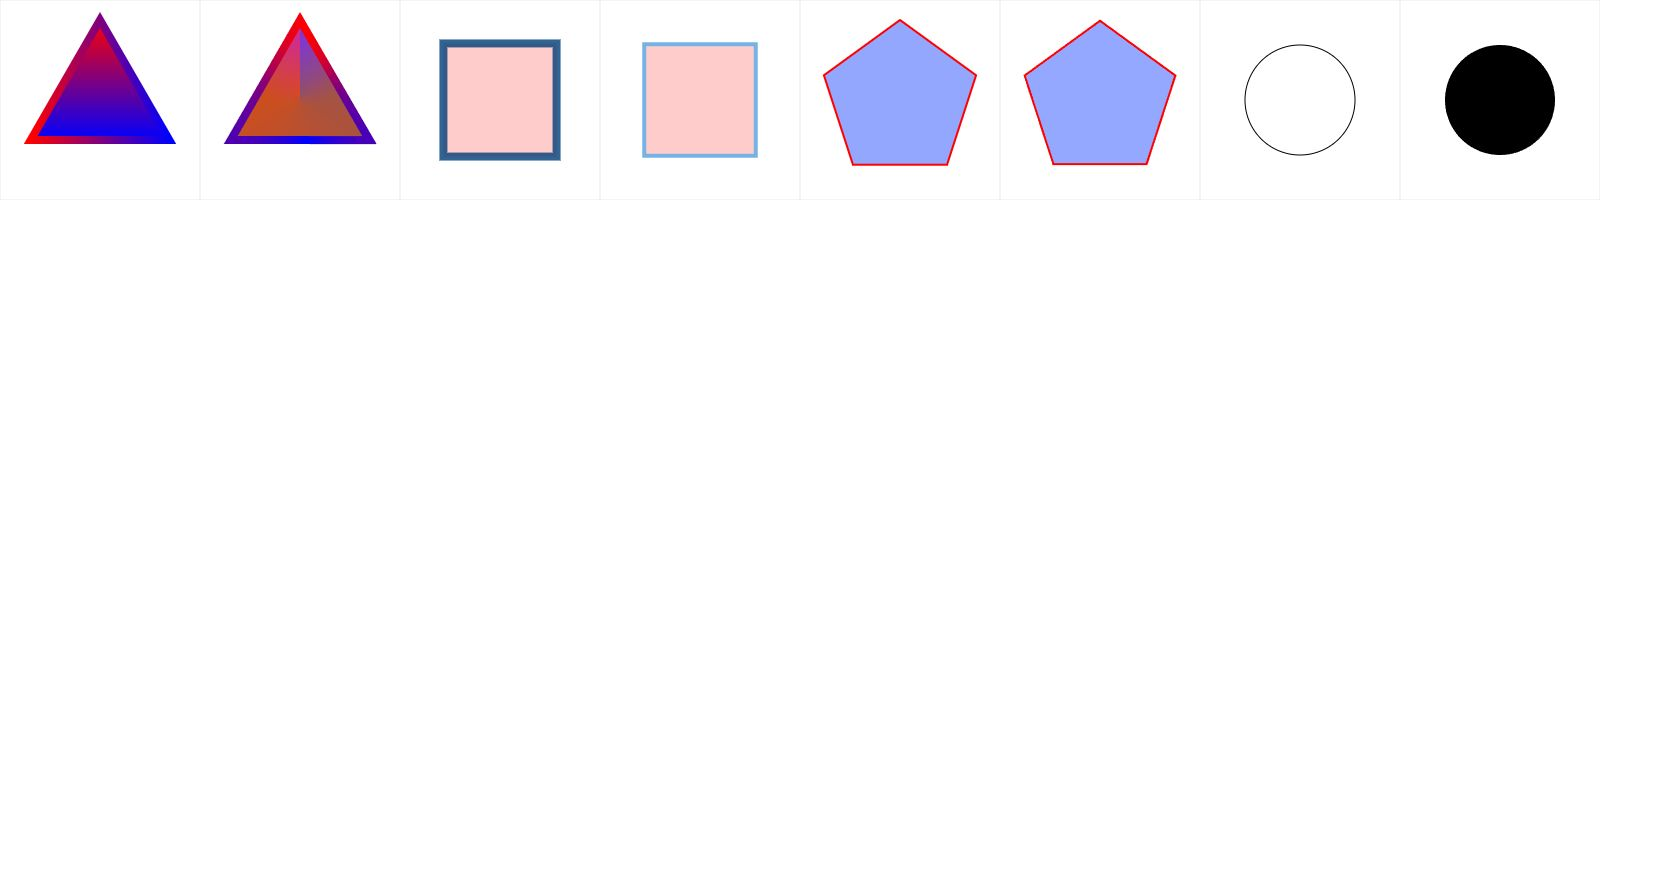
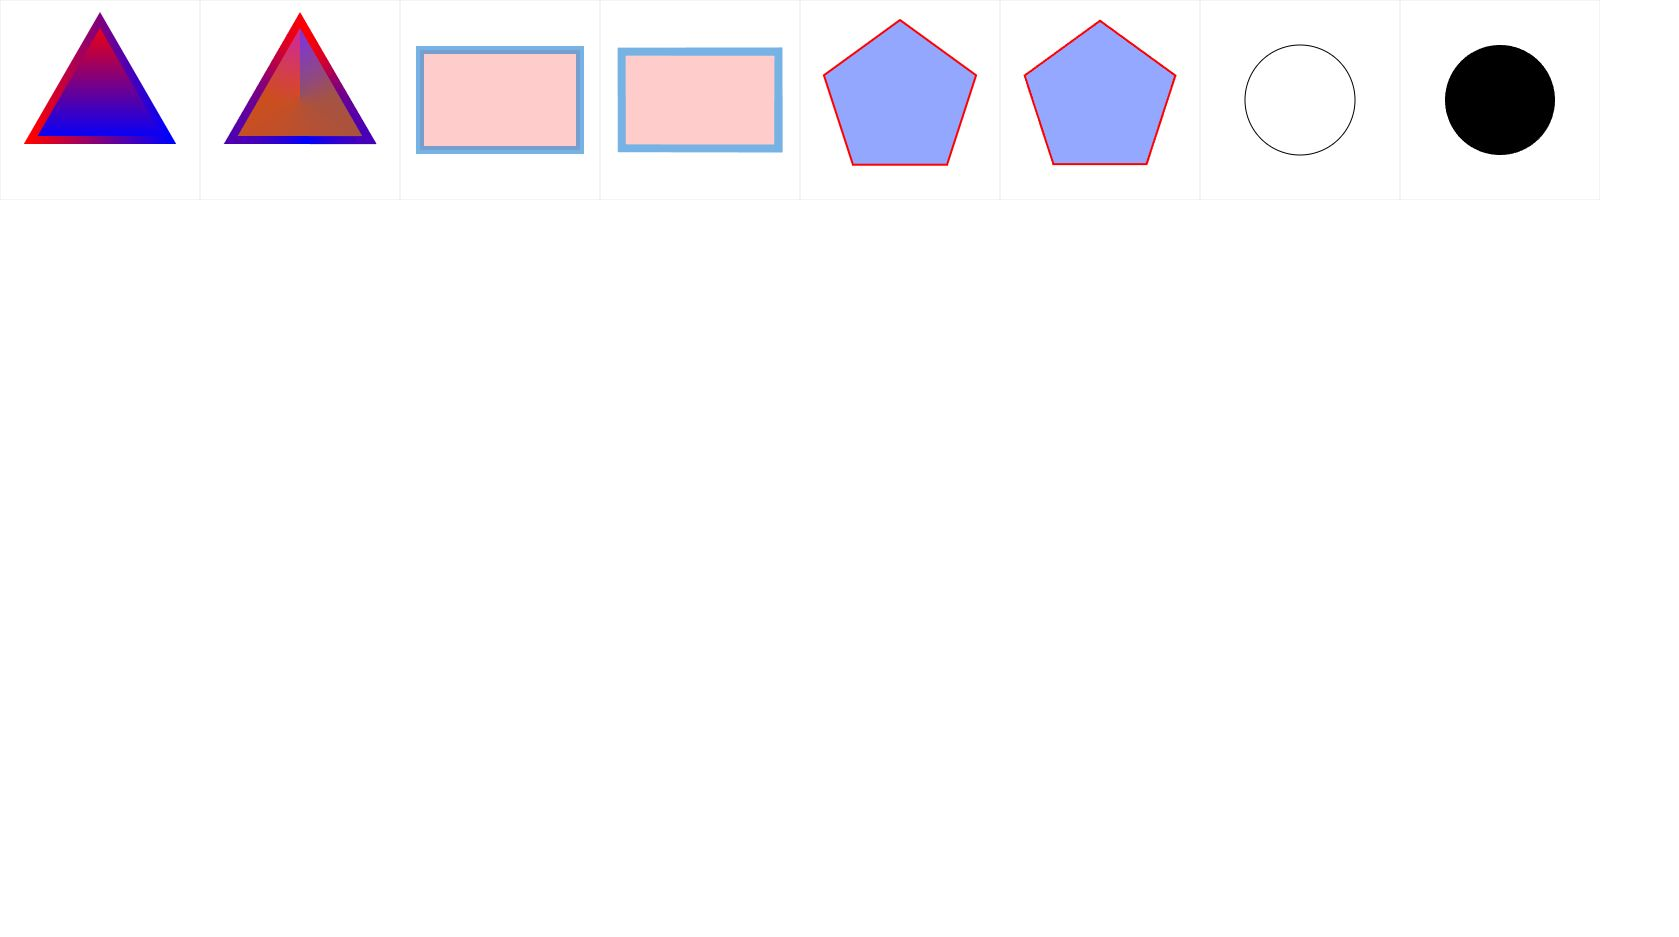
feat(main): 主面板

diff --git a/src/pieces/luma/startrails/panels/main.vue b/src/pieces/luma/startrails/panels/main.vue
@@ -1,5 +1,13 @@
 <template>
-  <div class="panel-main">
+  <div
+    class="panel-main"
+    :style="{
+      width: `${state.main.bound.width}px`,
+      height: `${state.main.bound.height}px`,
+      left: `${state.main.bound.left}px`,
+      top: `${state.main.bound.top}px`,
+    }"
+  >
     <canvas ref="canvas" />
   </div>
 </template>
@@ -9,6 +17,7 @@ import { ShapeCreator, ColorDescriber } from '../../shapeCreater/lib/ShapeCreato
 
 export default {
   name: 'PanelMain',
+  inject: ['state'],
   data() {
     return {
       shape: null
@@ -21,19 +30,17 @@ export default {
     initPath() {
       this.shape = new ShapeCreator({
         canvas: this.$refs.canvas,
-        type: 'regularPolygon',
+        type: 'rect',
         transform: {
           translate: [0, 0]
         },
         shape: {
-          side: 4,
-          radius: 80,
-          start: Math.PI / 4
+          width: this.state.status.width,
+          height: this.state.status.height
         },
         style: {
-          fill: new ColorDescriber([], { base: [255, 0, 0, 0.2] }),
-          stroke: new ColorDescriber([], { base: [26, 128, 210, 0.6] }),
-          strokeWidth: 4
+          stroke: new ColorDescriber([], { base: [26, 128, 210, 0.2] }),
+          strokeWidth: this.state.status.thickness
         }
       })
     }
@@ -44,13 +51,13 @@ export default {
 <style lang="scss" scoped>
   .panel-main{
     position: absolute;
-    left: 100px;
-    top: 100px;
-    width: 1000px;
-    height: 600px;
     box-shadow:
       0px 0px 3px rgba(0, 0, 0, 0.2),
       0px 1px 3px rgba(0, 0, 0, 0.2),
       0px 0px 7px 1px rgba(0, 0, 0, 0.25);
+    canvas{
+      width: 100%;
+      height: 100%;
+    }
   }
 </style>

diff --git a/src/pieces/luma/shapeCreater/lib/ShapeCreator/pass/GeometryPass.js b/src/pieces/luma/shapeCreater/lib/ShapeCreator/pass/GeometryPass.js
@@ -2,7 +2,7 @@ import { Model } from '@luma.gl/engine'
 import { setParameters, resizeGLContext } from '@luma.gl/gltools'
 // import { HelperLine } from '../geometry'
 import { Pass } from '../pass'
-import { constantValue } from '../utils' // , RectProcessModel
+import { constantValue, RectProcessModel } from '../utils'
 
 export const GeometryPass = new Pass({
   onInitialize: ({ gl }) => {
@@ -45,11 +45,12 @@ export const GeometryPass = new Pass({
 
       void main() {
         if (v_texture.x == f0) {
+          // colorValue = vec4(f1, f0, f0, f1);
           colorValue = texture2D(u_colorTextures[0], vec2(v_texture.y, f1 - v_texture.z));
         } else if (v_texture.x == f1) {
           colorValue = texture2D(u_colorTextures[1], vec2(v_texture.y, f1 - v_texture.z));
           // colorValue = vec4(vec3(v_length), f1);
-        } else colorValue = vec4(f0, f0, f0, f1);
+        } else colorValue = vec4(f0, f0, f0, f0);
       }
     `
 
@@ -67,6 +68,8 @@ export const GeometryPass = new Pass({
     canvas.style.height = height + 'px'
     resizeGLContext(gl)
     gl.viewport(0, 0, width, height)
+
+    // console.log(geometry.textures)
 
     const shapeModel = new Model(gl, {
       uniforms: {
@@ -107,7 +110,6 @@ export const GeometryPass = new Pass({
     for (const key in geometryUniforms) shapeModel.uniforms[key] = geometryUniforms[key]
     // console.log(shapeModel.uniforms)
     shapeModel.draw()
-    // console.log(shapeModel)
     // shapeModel.draw({ framebuffer: target })
 
     // const helper = new HelperLine(gl, { lines: geometry.helperLines, size: geometryUniforms.u_geometry_size })

diff --git a/src/pieces/luma/shapeCreater/lib/ShapeCreator/utils/shapeSolver.js b/src/pieces/luma/shapeCreater/lib/ShapeCreator/utils/shapeSolver.js
@@ -66,12 +66,14 @@ const solvers = {
   rect(shape) {
     const { width, height } = shape
     const ps = []
-    ps.push([width * -0.5, height * -0.5])
-    ps.push([width * 0.5, height * -0.5])
-    ps.push([width * 0.5, height * 0.5])
-    ps.push([width * -0.5, height * 0.5])
+    ps.push([width * -0.5, height * -0.5, 0])
+    ps.push([width * 0.5, height * -0.5, width])
+    ps.push([width * 0.5, height * 0.5, width + height])
+    ps.push([width * -0.5, height * 0.5, width * 2 + height])
+    const length = width * 2 + height * 2
 
     return {
+      length,
       points: ps,
       size: 1,
       autoResizeMode: 1
@@ -83,7 +85,7 @@ export function shapeSolver({ type = 'custom', shape = {}}) {
   return solvers[type](shape)
 }
 
-export function polygonToSvgString({ points, size, width, height, params = {}}) {
+export function polygonToSvgString({ points, size = 1, width = 100, height = 100, params = {}}) {
   const { pathForClipPath } = params
   let str = ''
   // console.log(points)
@@ -94,8 +96,8 @@ export function polygonToSvgString({ points, size, width, height, params = {}}) 
     })
   } else {
     points.map((point, index) => {
-      if (index === 0) str += `M${point[0] * size},${point[1] * size} `
-      else str += `L${point[0] * size},${point[1] * size} `
+      if (index === 0) str += `M${point[0] * size + width},${point[1] * size + height} `
+      else str += `L${point[0] * size + width},${point[1] * size + height} `
     })
     str += 'Z'
   }

diff --git a/src/pieces/luma/shapeCreater/entry.vue b/src/pieces/luma/shapeCreater/entry.vue
@@ -21,9 +21,9 @@
     <canvas ref="c0" class="block" style="height: 200px;" width="200" height="200" />
     <svg version="1.1" xmlns:xlink="http://www.w3.org/1999/xlink" preserveAspectRatio="xMidYMid meet" class="block" viewBox="0 0 200 200">
       <path
-        d="M156.5685424949238,43.431457505076196 L156.5685424949238,156.5685424949238 L43.4314575050762,156.5685424949238 L43.43145750507618,43.43145750507621 Z"
+        d="M20,50 L180,50 L180,150 L20,150 Z"
         fill="rgba(255, 0, 0, 0.2)"
-        stroke="rgba(0, 60, 120, 0.8)"
+        stroke="rgba(26, 128, 210, 0.6)"
         stroke-width="8"
       />
     </svg>
@@ -134,19 +134,19 @@ export default {
 
     this.sc1 = new ShapeCreator({
       canvas: this.$refs.c1,
-      type: 'regularPolygon',
+      type: 'rect',
+      showSvg: true,
       transform: {
         translate: [0, 0]
       },
       shape: {
-        side: 4,
-        radius: 80,
-        start: Math.PI / 4
+        width: 160,
+        height: 100
       },
       style: {
         fill: new ColorDescriber([], { base: [255, 0, 0, 0.2] }),
         stroke: new ColorDescriber([], { base: [26, 128, 210, 0.6] }),
-        strokeWidth: 4
+        strokeWidth: 8
       }
     })
 
@@ -170,7 +170,6 @@ export default {
     this.sc3 = new ShapeCreator({
       canvas: this.$refs.c3,
       type: 'circle',
-      // showSvg: true,
       shape: {
         accuracy: 4, // 曲线细分程度
         radius: 55

diff --git a/src/pieces/luma/startrails/panels/status.vue b/src/pieces/luma/startrails/panels/status.vue
@@ -1,12 +1,24 @@
 <template>
-  <div class="panel-status">
-    <md-field class="width-input">
+  <div
+    class="panel-status"
+    :style="{
+      width: `${state.status.bound.width}px`,
+      height: `${state.status.bound.height}px`,
+      left: `${state.status.bound.left}px`,
+      top: `${state.status.bound.top}px`,
+    }"
+  >
+    <md-field class="width-input params-input">
       <label for="width">宽度</label>
-      <md-input id="width" v-model="state.size.width" name="width" />
+      <md-input id="width" v-model="state.status.width" name="width" />
     </md-field>
-    <md-field class="height-input">
+    <md-field class="height-input params-input">
       <label for="height">高度</label>
-      <md-input id="height" v-model="state.size.height" name="height" />
+      <md-input id="height" v-model="state.status.height" name="height" />
+    </md-field>
+    <md-field class="thickness-input params-input">
+      <label for="thickness">厚度</label>
+      <md-input id="thickness" v-model="state.status.thickness" name="thickness" />
     </md-field>
   </div>
 </template>
@@ -24,11 +36,7 @@ export default {
 <style lang="scss" scoped>
   .panel-status{
     position: absolute;
-    left: 300px;
-    top: 10px;
-    width: 500px;
-    height: 80px;
-    .width-input, .height-input{
+    .params-input{
       width: 120px;
       display: inline-block;
       vertical-align: middle;

diff --git a/src/pieces/luma/shapeCreater/lib/ShapeCreator/index.js b/src/pieces/luma/shapeCreater/lib/ShapeCreator/index.js
@@ -79,9 +79,12 @@ initLoop()
 
 export class ShapeCreator {
   constructor(params) {
-    const { canvas, type, shape, style, showNormal = false, dynamic = false, transform = {}} = params
+    const { canvas, type, shape, style, showSvg = false, showNormal = false, dynamic = false, transform = {}} = params
     this.style = style
     this.canvas = canvas
+    const { width, height } = canvas.getBoundingClientRect()
+    this.canvas.width = width
+    this.canvas.height = height
     this.ctx = this.canvas.getContext('2d')
     this.dynamic = dynamic // shaper的颜色需要贴图来渲染，在不作动态使用时，我们认为这是一个单次绘制后就会去除贴图的类型，下次绘制时贴图会重新初始化
 
@@ -94,6 +97,7 @@ export class ShapeCreator {
     this.originSize = size // 跟外部的形变作一个区分
     this.autoResizeMode = autoResizeMode
     this.showNormal = showNormal // 是否显示几何图形的法线
+    if (showSvg) console.log(polygonToSvgString({ points: this.points, size: this.originSize }))
 
     // 初始化geometry
     if (publicRenderer.gl) {
@@ -160,6 +164,8 @@ export class ShapeCreator {
       this.ctx.drawImage(pipe.pools.canvas, 0, 0, this.canvas.width, this.canvas.height)
     }
   }
+
+  resize() {}
 
   refresh() {
     if (publicRenderer.renderTasks.indexOf(this.render) > -1) return

diff --git a/src/pieces/luma/startrails/state.js b/src/pieces/luma/startrails/state.js
@@ -2,9 +2,24 @@ import Vue from 'vue'
 
 export default new Vue({
   data: {
-    size: {
-      width: 400,
-      height: 300
+    main: {
+      bound: {
+        left: 100,
+        top: 100,
+        width: 1000,
+        height: 600
+      }
+    },
+    status: {
+      bound: {
+        left: 100,
+        top: 20,
+        width: 500,
+        height: 60
+      },
+      width: 480,
+      height: 300,
+      thickness: 50
     }
   }
 })
